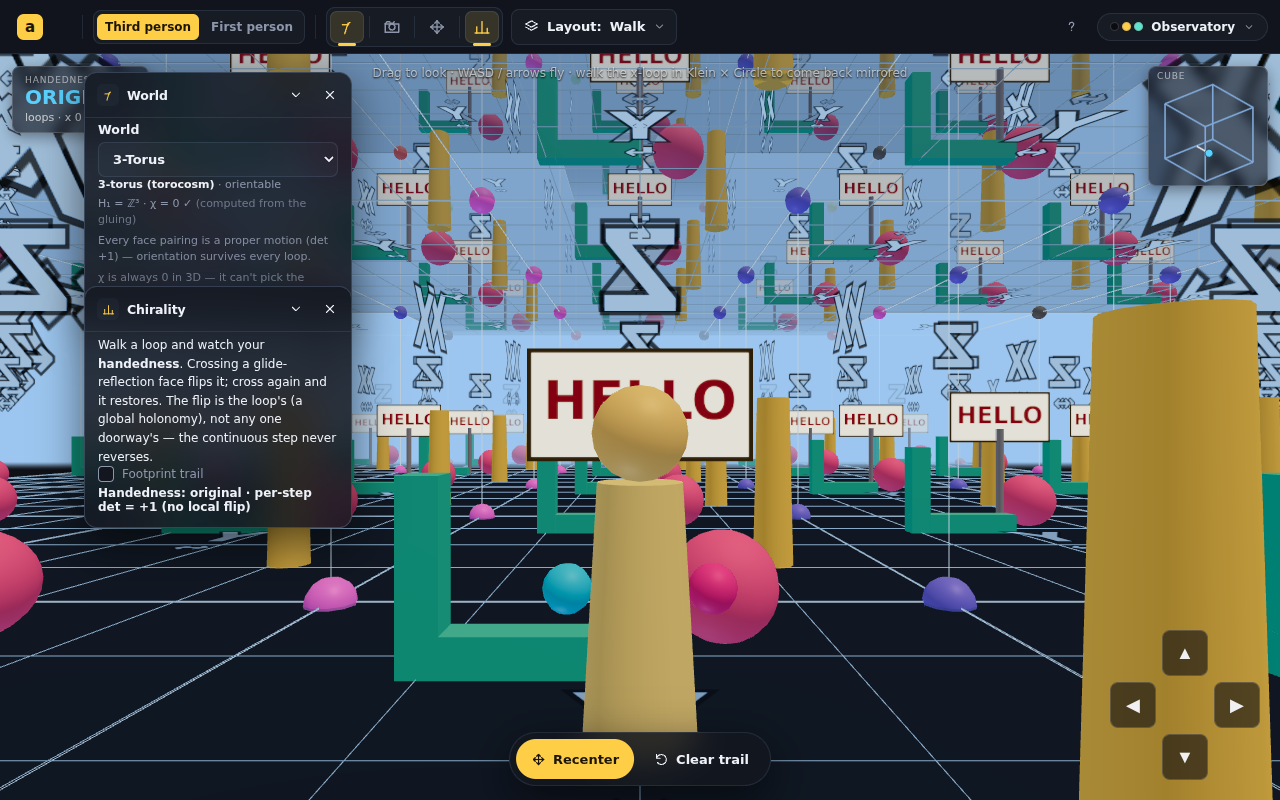
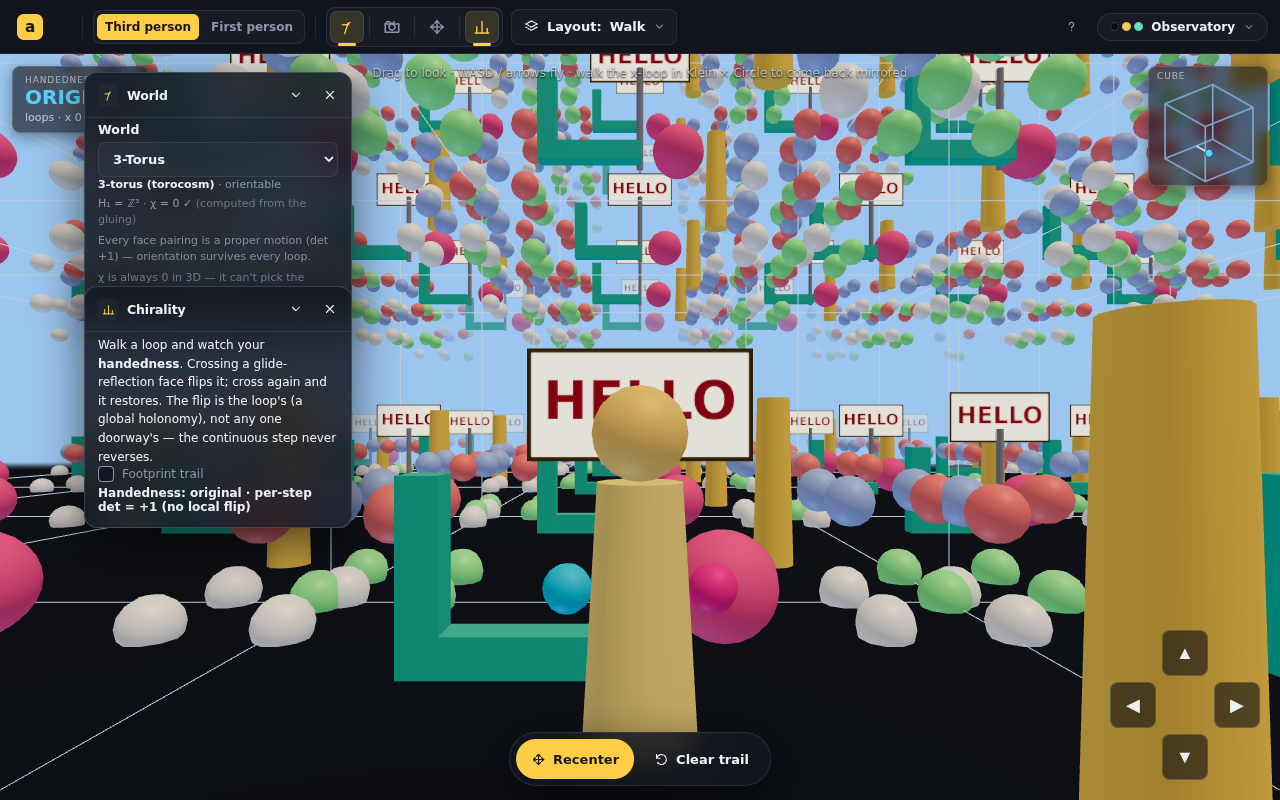
Solid Worlds: corner markers are 4-ball chiral tetrads, just inside each corner
At each of the 8 cube corners, just inside the room, a cluster of 4 colored
balls in a chiral tetrahedron (R/G/B/white). A 4-color tetrad has no mirror
symmetry, so crossing a wall reveals the gluing's rotation OR reflection
straight off how the colors land. One InstancedMesh, N*8*4 instances.

Build + lint green; verified headless.

Claude-Session: https://claude.ai/code/session_01Wv19hsJr1e1cw1VWoFSBa1

diff --git a/src/animations/SolidWorlds/coverEngine.ts b/src/animations/SolidWorlds/coverEngine.ts
@@ -320,21 +320,30 @@ export function makeCoverEngine(deps: EngineDeps3, spec: SolidWorldSpec, opts: O
     trailInst.instanceMatrix.needsUpdate = true;
     coverRoot.add(trailInst);
 
-    // corner markers — one ball per cube corner, colored by its sign bits (the
-    // RGB-cube scheme), so you can read orientation + mirroring at a glance
+    // corner markers — at each of the 8 cube corners, just inside the room, a
+    // little cluster of 4 colored balls in a chiral tetrahedron (R·G·B·white).
+    // A 4-color tetrad has no mirror symmetry, so when you cross a wall the
+    // gluing's rotation OR reflection is read straight off how the colors land.
     if (showCorners && cornerGeo && cornerMat) {
-      const corners: [number, number, number][] = [];
-      for (let b = 0; b < 8; b++) corners.push([(b & 1) ? 1 : -1, (b & 2) ? 1 : -1, (b & 4) ? 1 : -1]);
-      const hh = size / 2;
-      const inst = new THREE.InstancedMesh(cornerGeo, cornerMat, N * 8);
+      const TETRA: [number, number, number][] = [[1, 1, 1], [1, -1, -1], [-1, 1, -1], [-1, -1, 1]];
+      const TCOL: [number, number, number][] = [[1, 0.25, 0.25], [0.3, 1, 0.35], [0.4, 0.55, 1], [1, 1, 1]];
+      const hh = (size / 2) * 0.82;        // cluster centers, just inside the walls
+      const r = U * 0.16 / Math.sqrt(3);   // tetrad radius (fixed, furniture-scaled)
+      const inst = new THREE.InstancedMesh(cornerGeo, cornerMat, N * 8 * 4);
       inst.frustumCulled = false;
       const col = new THREE.Color();
+      const off = new THREE.Matrix4();
       let idx = 0;
-      for (let i = 0; i < N; i++) for (const cc of corners) {
-        tmp.copy(cells[i]).multiply(new THREE.Matrix4().setPosition(cc[0] * hh, cc[1] * hh, cc[2] * hh));
-        inst.setMatrixAt(idx, tmp);
-        inst.setColorAt(idx, col.setRGB(cc[0] > 0 ? 1 : 0.22, cc[1] > 0 ? 1 : 0.22, cc[2] > 0 ? 1 : 0.22));
-        idx++;
+      for (let i = 0; i < N; i++) {
+        for (let b = 0; b < 8; b++) {
+          const cx = ((b & 1) ? 1 : -1) * hh, cy = ((b & 2) ? 1 : -1) * hh, cz = ((b & 4) ? 1 : -1) * hh;
+          for (let k = 0; k < 4; k++) {
+            off.setPosition(cx + TETRA[k][0] * r, cy + TETRA[k][1] * r, cz + TETRA[k][2] * r);
+            inst.setMatrixAt(idx, tmp.multiplyMatrices(cells[i], off));
+            inst.setColorAt(idx, col.setRGB(TCOL[k][0], TCOL[k][1], TCOL[k][2]));
+            idx++;
+          }
+        }
       }
       inst.instanceMatrix.needsUpdate = true;
       if (inst.instanceColor) inst.instanceColor.needsUpdate = true;

diff --git a/docs/sessions/progress/polygon-world-app-review-8dduma/2026-06-18-S01-solid-worlds-attribution-policy.md b/docs/sessions/progress/polygon-world-app-review-8dduma/2026-06-18-S01-solid-worlds-attribution-policy.md
@@ -40,9 +40,10 @@ this session is generalizing into a standing policy). Latest handoff overall is
 - **Face labels:** per-face axis letter (X/Y/Z) with a glyph + color for what its
   pairing does (↔ straight · ↻ turn · ⇋ flip), facing inward. One InstancedMesh
   per face (6), instanced over the cover. `faceLabelTexture` in textures.ts.
-- **Corner markers:** a ball at each of the 8 cube corners, colored by its sign
-  bits (the RGB-cube scheme) so you can read orientation + mirroring across cells.
-  One InstancedMesh with per-instance `instanceColor`, N×8 instances.
+- **Corner markers:** at each of the 8 cube corners, **just inside the room**, a
+  cluster of **4 colored balls** in a chiral tetrahedron (R·G·B·white). A 4-color
+  tetrad has no mirror symmetry, so crossing a wall reveals the gluing's rotation
+  *or* reflection straight off how the colors land. One InstancedMesh, N×8×4.
 - Both default **off** (clean default), toggled by **Face labels** / **Corner
   markers** checkboxes; persisted.
 